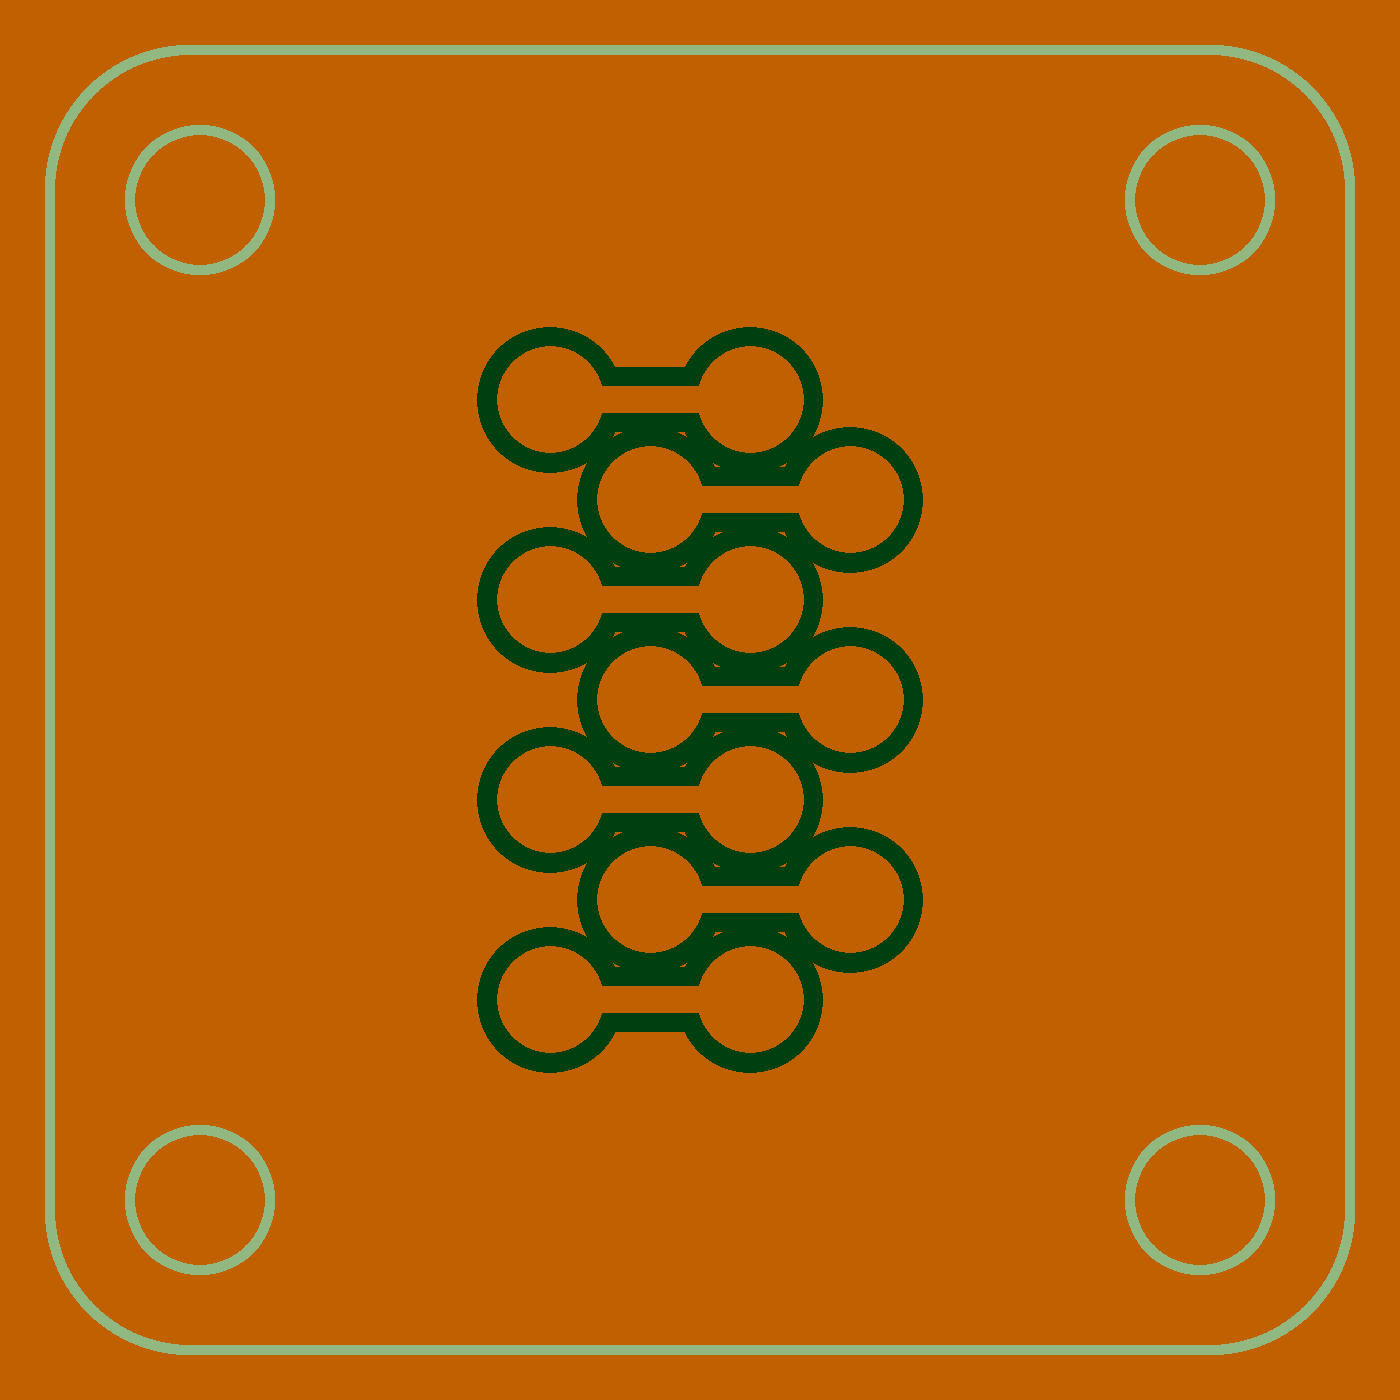
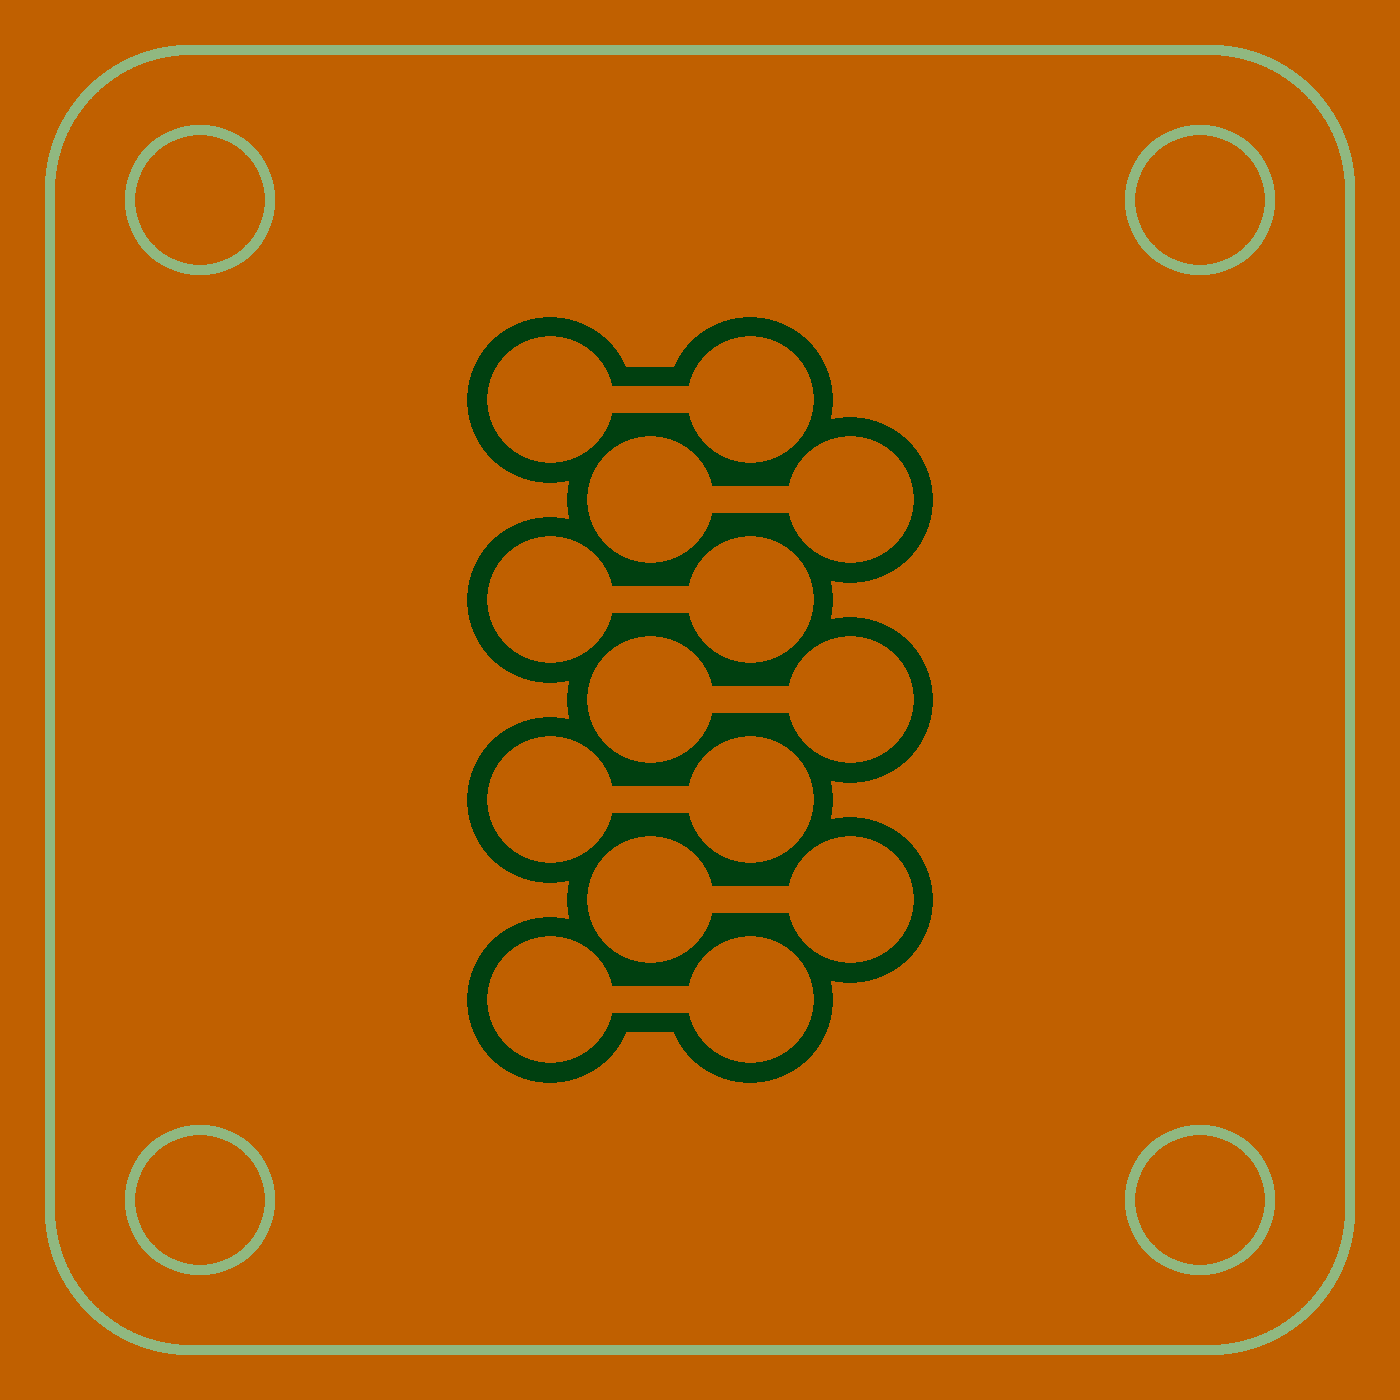
Switch to blind vias: increase blind spot diameter

Changed region(s): [[0.3071, 0.215, 0.6757, 0.7986]]

diff --git a/eda/lib/via/via.go b/eda/lib/via/via.go
@@ -13,7 +13,7 @@ func Via(layer1, layer2 int) *eda.Component {
 	const (
 		viaDiameter    = 0.6
 		topDiameter    = 1.0
-		bottomDiameter = 1.0
+		bottomDiameter = 1.2
 	)
 
 	return &eda.Component{
